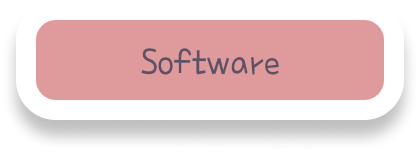
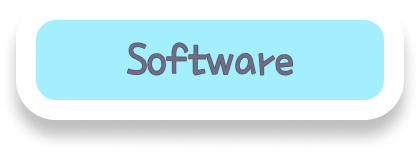
style: redo topic screen layout + new assets with bolded font

diff --git a/src/main/java/com/se206/g11/controllers/Topic.java b/src/main/java/com/se206/g11/controllers/Topic.java
@@ -28,16 +28,17 @@ public class Topic extends ApplicationController implements Initializable {
     @FXML private ImageView babies_button;
     @FXML private ImageView compassPoints_button;
     @FXML private ImageView colours_button;
-    @FXML private ImageView daysOfWeekLoanWords_button;
-    @FXML private ImageView monthsOfYearLoanWords_button;
+    @FXML private ImageView daysOfWeek_button;
+    @FXML private ImageView monthsOfYear_button;
     @FXML private ImageView software_button;
     @FXML private ImageView uniLife_button;
     @FXML private ImageView weather_button;
     @FXML private ImageView work_button;
+    @FXML private ImageView feelings_button;
 
     //// Private Methods ////
 
-    private void __initiliseSelectableTopic(ImageView id){
+    private void __initialiseSelectableTopic(ImageView id){
         //get topic name from button
         String listName = id.getId().replace("_button", "");
 
@@ -73,14 +74,15 @@ public class Topic extends ApplicationController implements Initializable {
         }
 
         //add handlers
-        __initiliseSelectableTopic(babies_button);
-        __initiliseSelectableTopic(compassPoints_button);
-        __initiliseSelectableTopic(colours_button);
-        __initiliseSelectableTopic(daysOfWeekLoanWords_button);
-        __initiliseSelectableTopic(monthsOfYearLoanWords_button);
-        __initiliseSelectableTopic(software_button);
-        __initiliseSelectableTopic(uniLife_button);
-        __initiliseSelectableTopic(weather_button);
-        __initiliseSelectableTopic(work_button);
+        __initialiseSelectableTopic(babies_button);
+        __initialiseSelectableTopic(compassPoints_button);
+        __initialiseSelectableTopic(colours_button);
+        __initialiseSelectableTopic(daysOfWeek_button);
+        __initialiseSelectableTopic(monthsOfYear_button);
+        __initialiseSelectableTopic(software_button);
+        __initialiseSelectableTopic(uniLife_button);
+        __initialiseSelectableTopic(weather_button);
+        __initialiseSelectableTopic(work_button);
+        __initialiseSelectableTopic(feelings_button);
     }
 }
